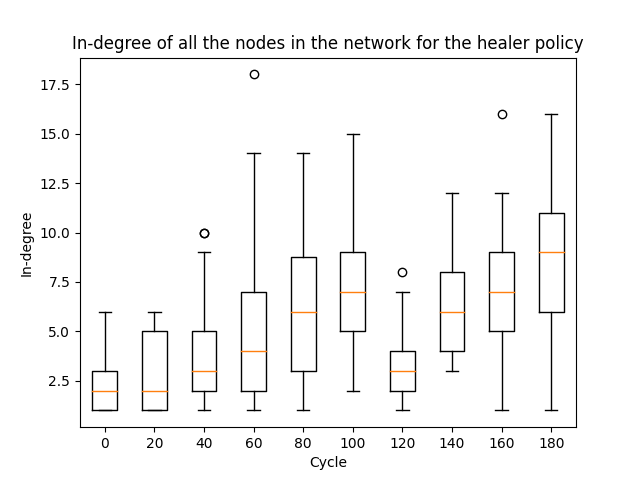
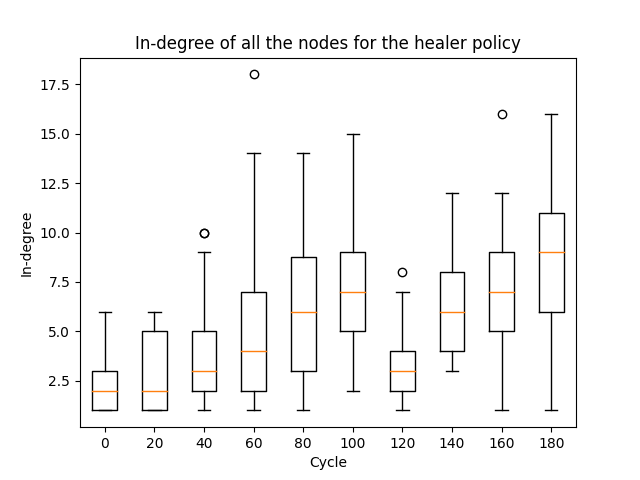
Discussion of results

Changed region(s): [[0.0938, 0.0625, 0.9062, 0.125]]

diff --git a/src/compute_indegree.py b/src/compute_indegree.py
@@ -26,7 +26,7 @@ for file in os.listdir("../results"):
 
     # Box-plots
     fig = plt.figure()
-    plt.title(f"In-degree of all the nodes in the network for the {policy} policy")
+    plt.title(f"In-degree of all the nodes for the {policy} policy")
     plt.xlabel("Cycle")
     plt.ylabel("In-degree")
     plt.boxplot(in_degree_table)

diff --git a/README.md b/README.md
@@ -129,3 +129,27 @@ These graphs are shown below:
 
 ![graph_healer](graphs/healer.png)
 ![graph_swapper](graphs/swapper.png)
+
+On both graphs, we see that the in-degree starts quite low.
+This is due to the fact that, initially,
+only a subset of the nodes are active,
+and the view of the nodes only contain their initial neighbors in the bootstrapping data structure.
+Then, the in-degree increases, as the nodes exchange their views with others,
+and thus increase the size of their views and the number of nodes they point to,
+which involves that, in general, the nodes have more other nodes that point to them,
+which increases their in-degree.
+Besides that, more nodes join the network, which adds to the number of links toward
+the nodes as well.
+
+At cycle 120, we observe that the in-degree drops drastically.
+This is due to the experimental scenario, that crashes a big amount of nodes at this cycle.
+As a result, the links coming out of these crashed nodes are not counted anymore,
+which reduces the general in-degree.
+
+At cycle 150, most of the crahsed nodes will be restarted,
+each having the same active node in their view.
+Thanks to that, one active node will have a high in-degree at this cycle.
+We can still see this on the 160th cycle of the healer policy graph,
+where there is an outlier with a very high in-degree.
+However, this cannot be seen in the swapper policy graph,
+as the swapping will remove this node from the view of the restarted nodes.
